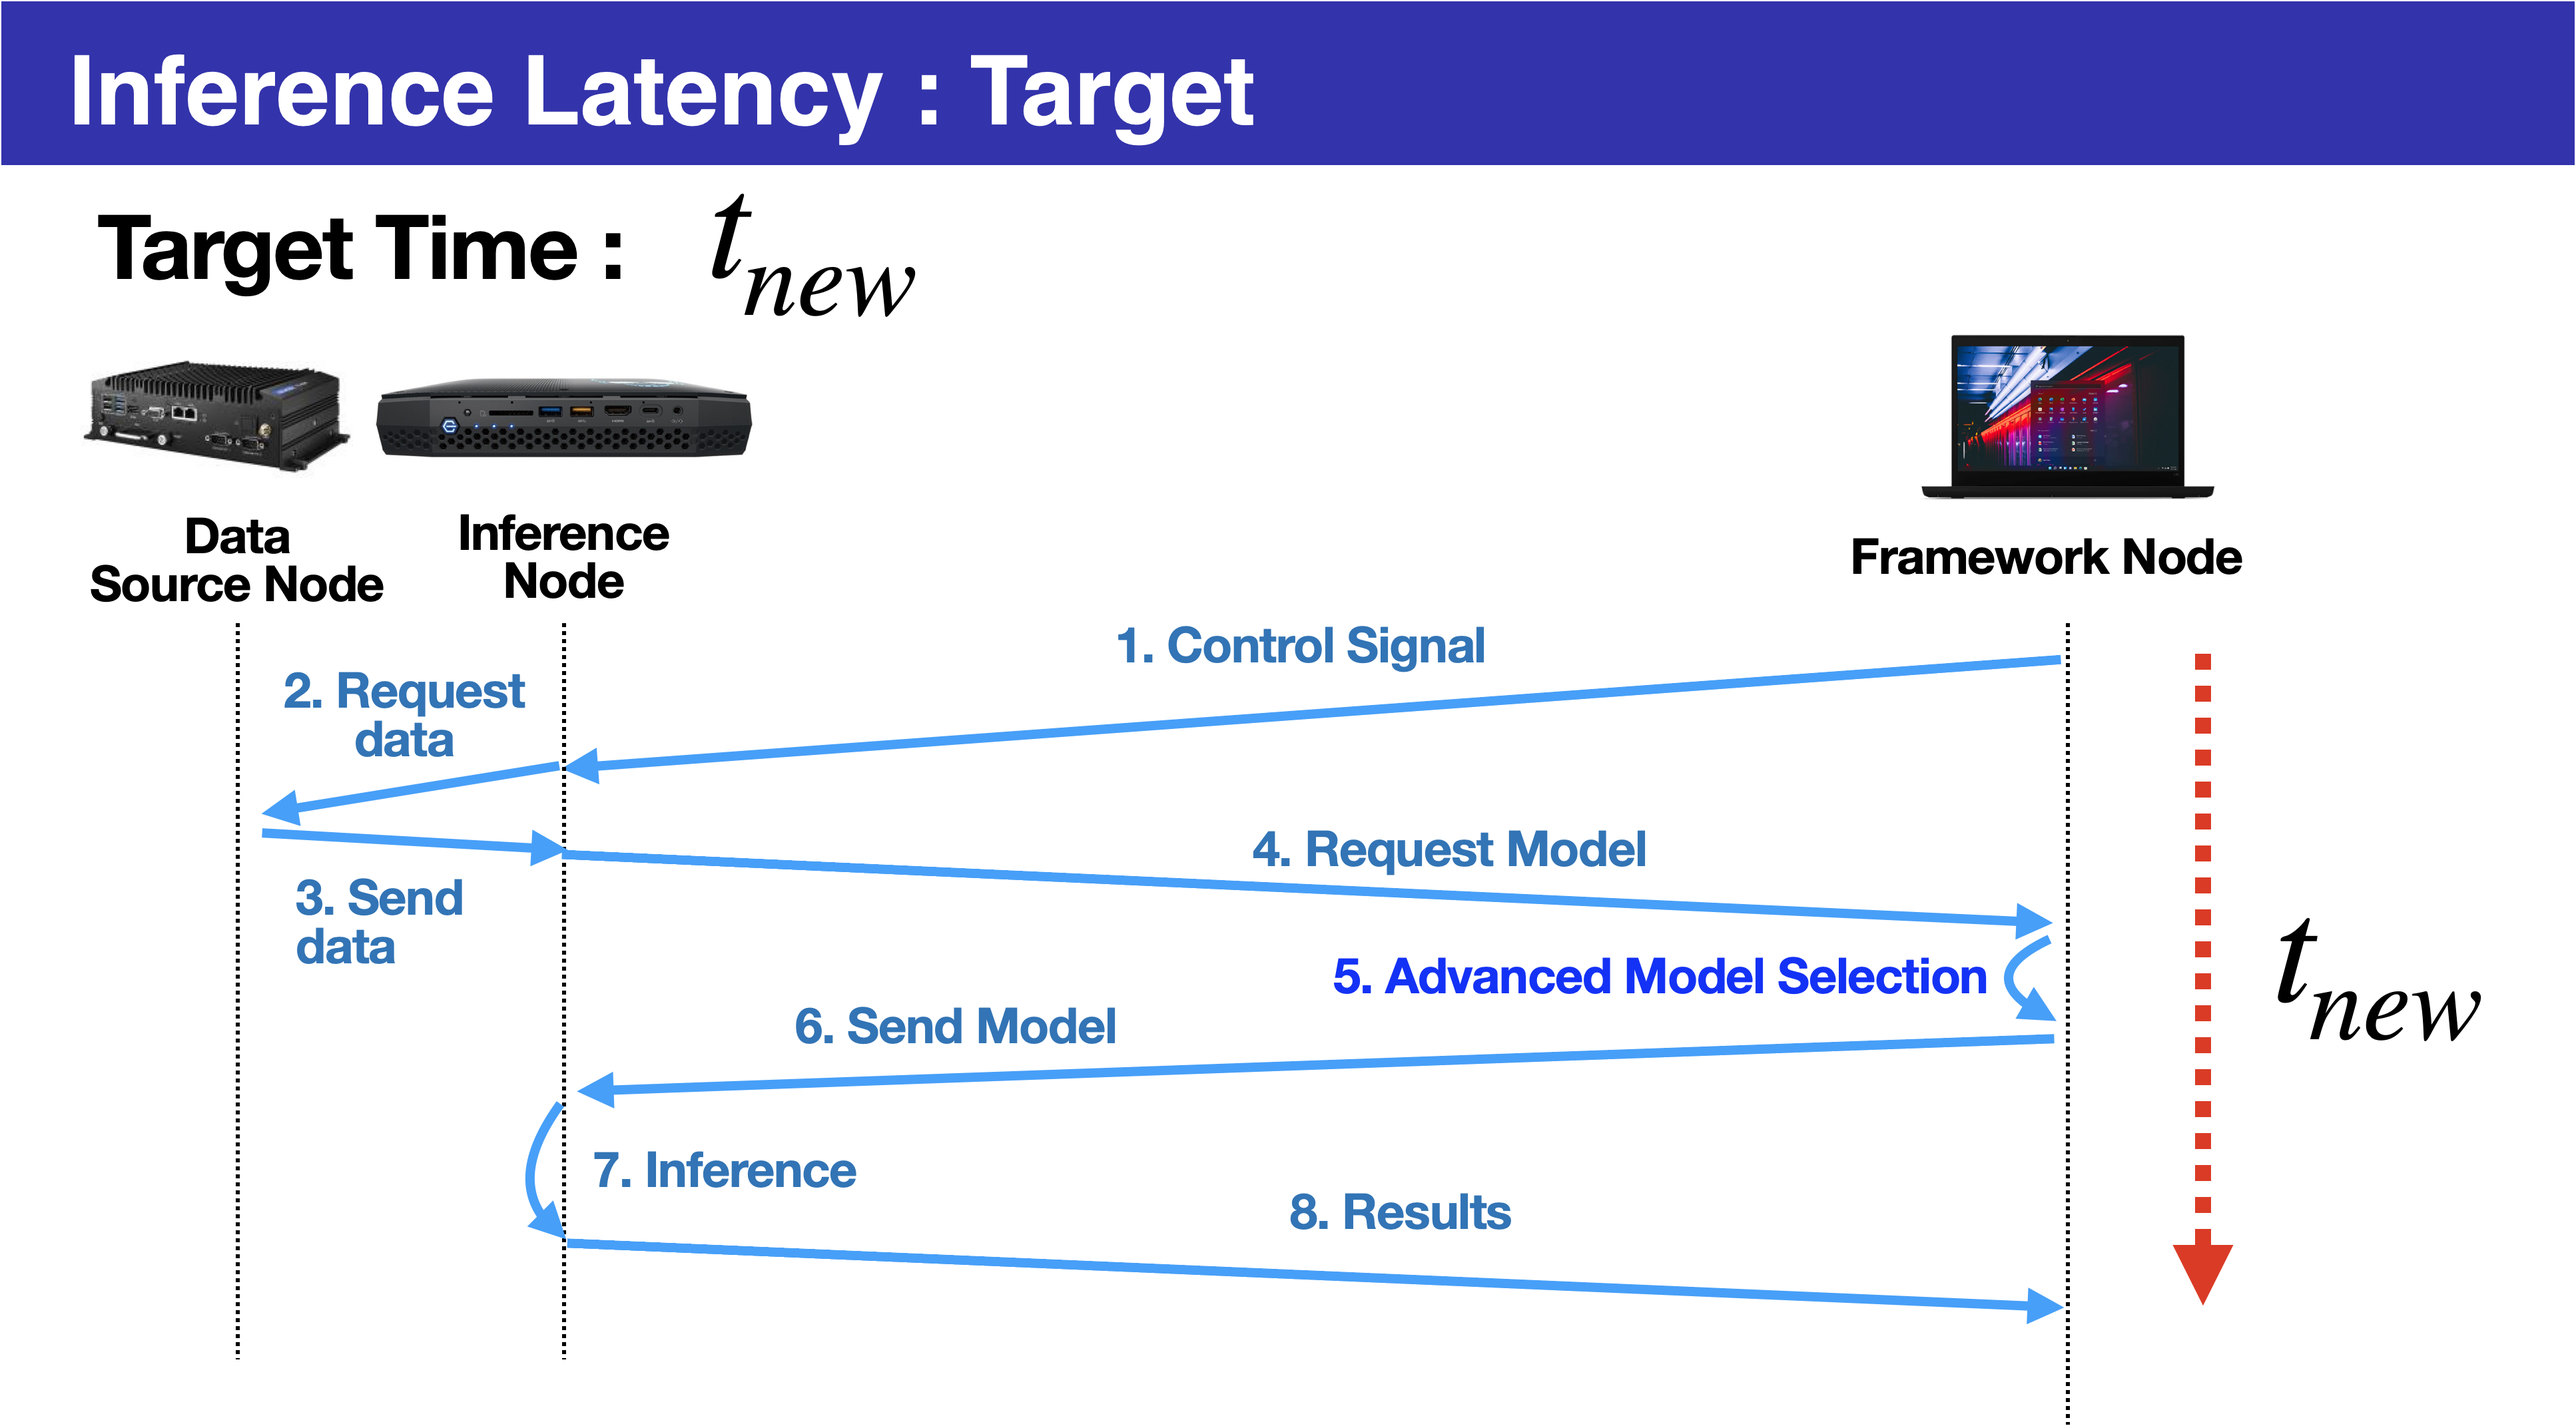
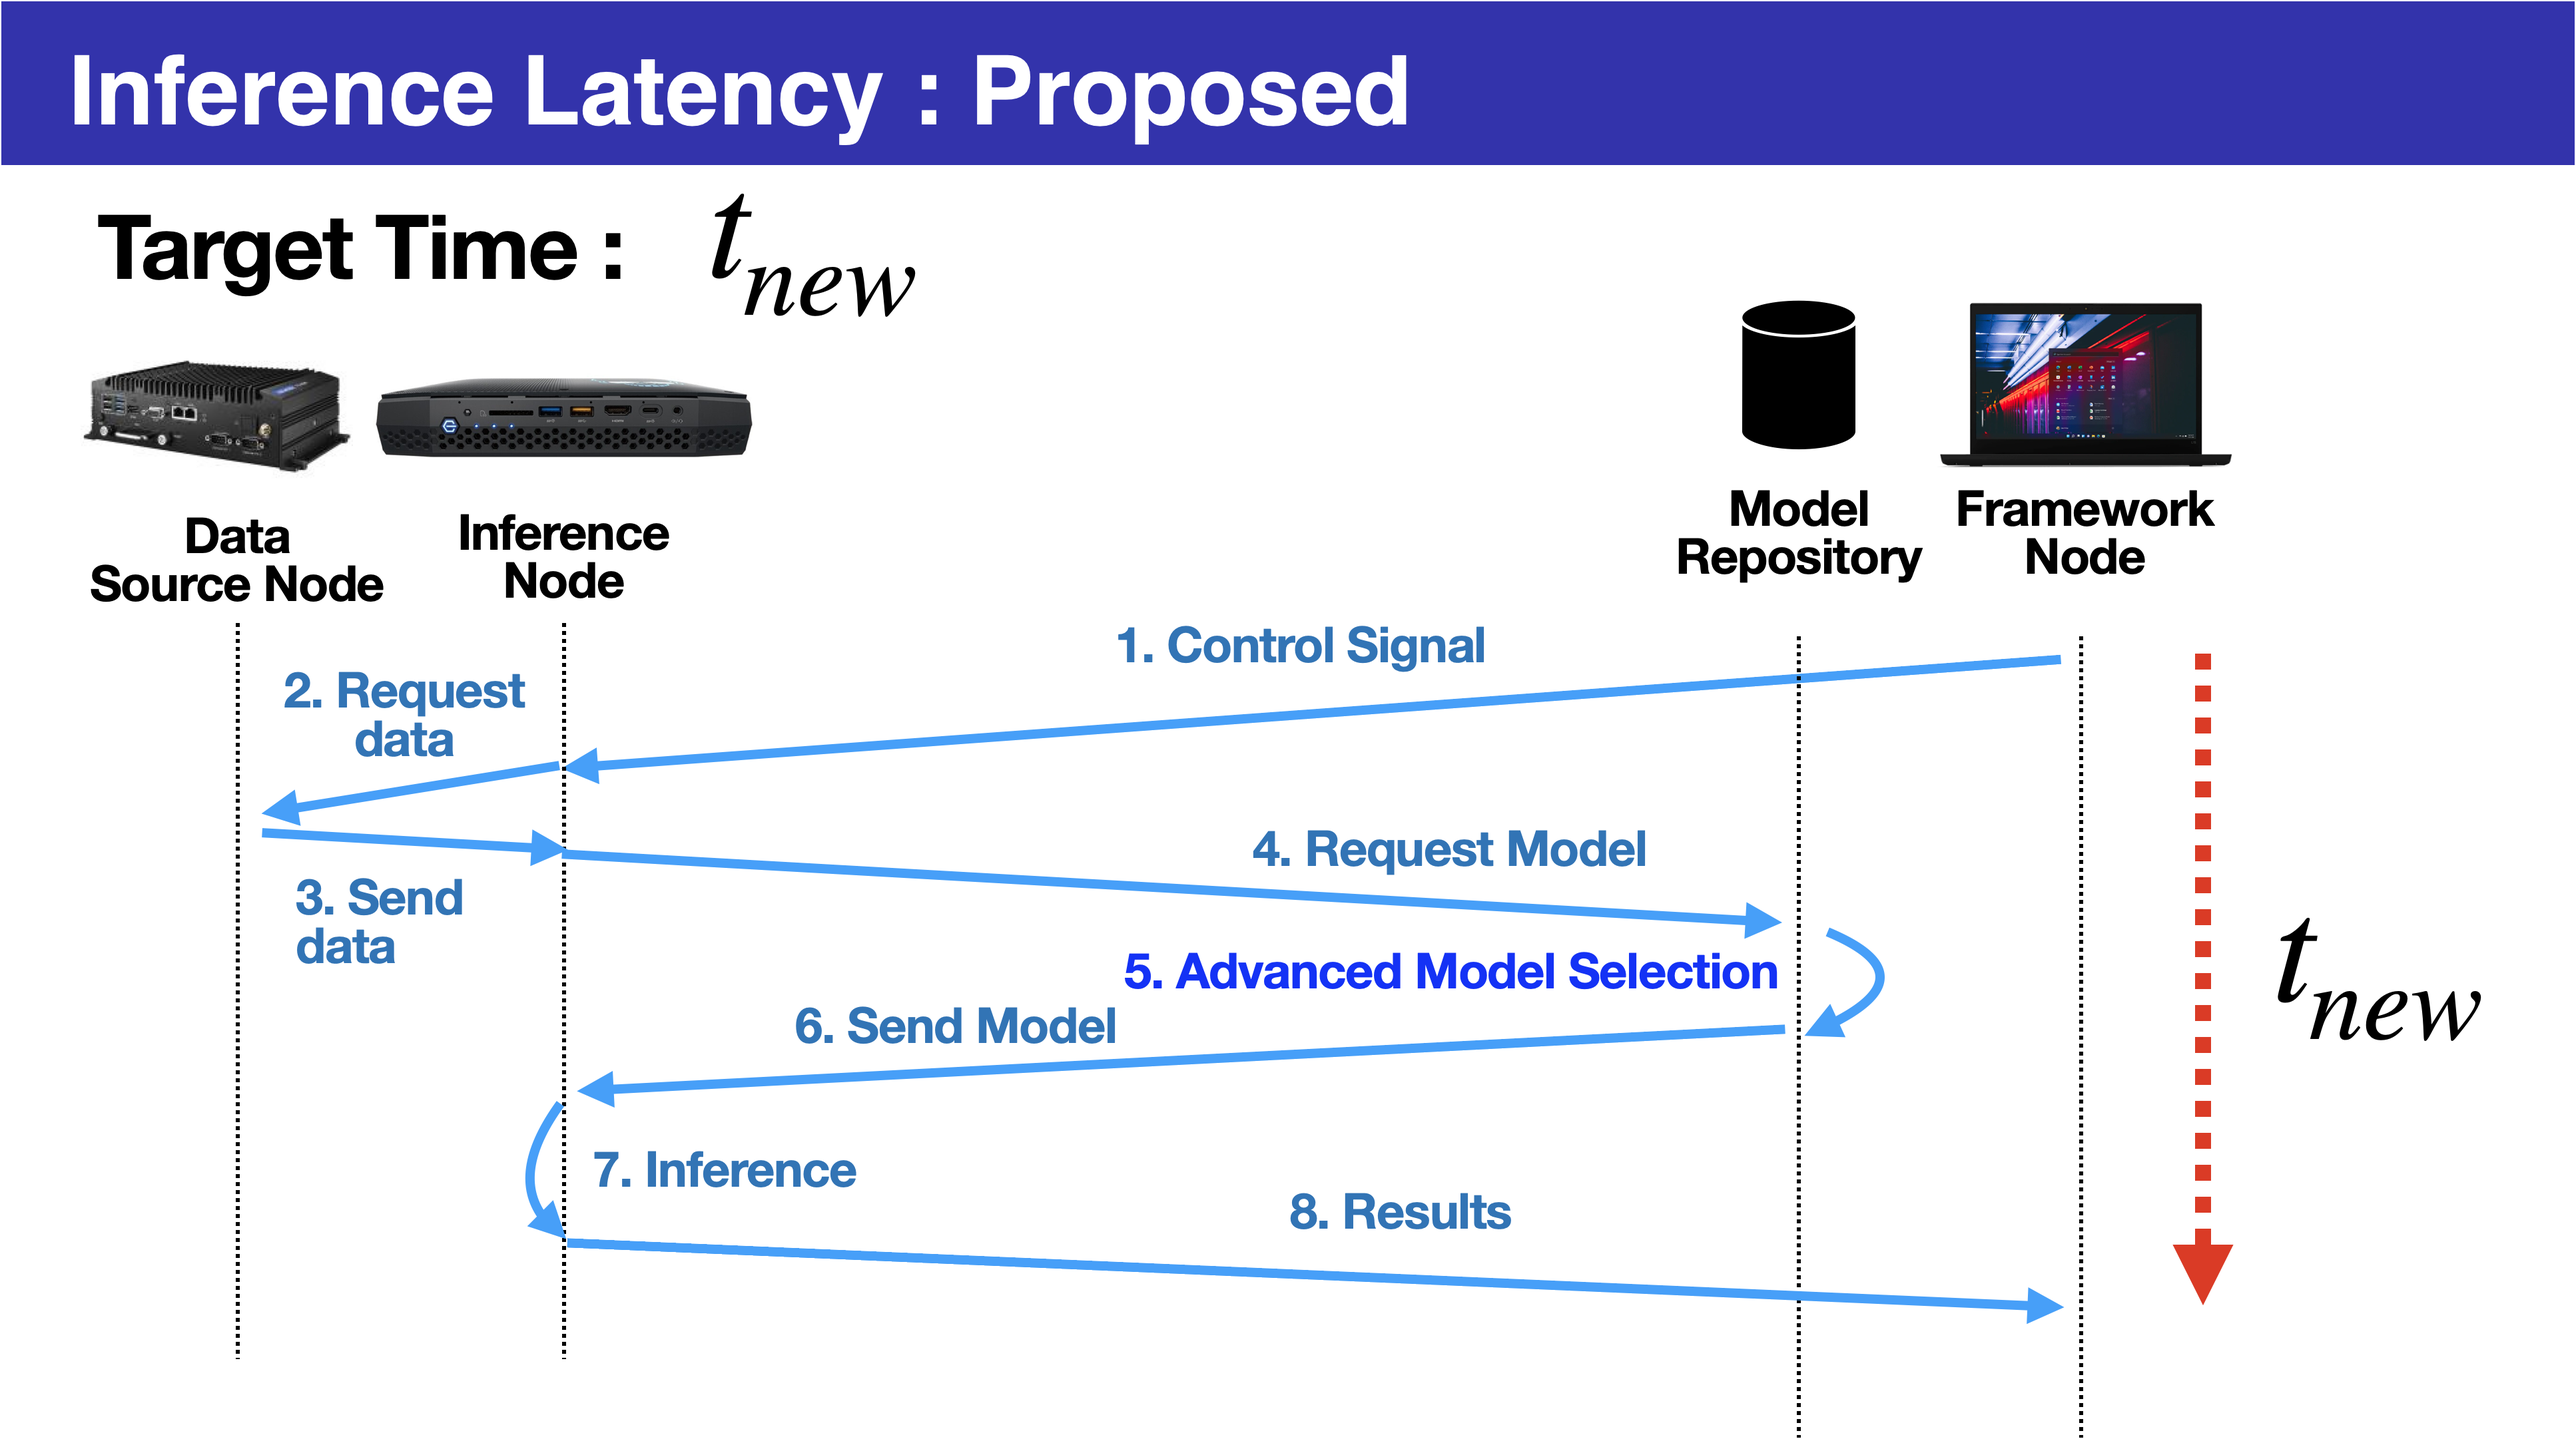
vnv docs

diff --git a/v2/vnv/mission2/README.md b/v2/vnv/mission2/README.md
@@ -19,17 +19,17 @@
 
 ### 기본 인프라
 
-- [출처: 사업계획서] 추론(분석)으로 인해 발생하는 종단 간 지연시간의 평균 개선율을 측정하기 위해 다음과 같이 클라우드-엣지 환경을 설정합니다.
+- 추론(분석)으로 인해 발생하는 종단 간 지연시간의 평균 개선율을 측정하기 위해 다음과 같이 클라우드-엣지 환경을 설정합니다. [출처: 사업계획서] 
 
 ### 평가 환경 및 조건
 
-- [출처: 사업계획서] 이기종의 네트워크 대역폭 및 불안정한 Backgroud Utilization 환경을 고려하며, 엣지 단독 추론 및 병행추론 등 다양한 유형의 분석 방식 채택 가능합니다.
+- 이기종의 네트워크 대역폭 및 불안정한 Backgroud Utilization 환경을 고려하며, 엣지 단독 추론 및 병행추론 등 다양한 유형의 분석 방식 채택 가능합니다. [출처: 사업계획서] 
 
 ### 기준 알고리즘
-- [출처: 사업계획서] 주어진 태스크와 목적에 부합하는 딥러닝 모델 중 가장 우수한 정확도를 제공하는 모델을 엣지 추론을 위한 모델로 선정하는 Greedy Model Selection Algorithm을 기준 알고리즘으로 선정합니다.
+- 주어진 태스크와 목적에 부합하는 딥러닝 모델 중 가장 우수한 정확도를 제공하는 모델을 엣지 추론을 위한 모델로 선정하는 Greedy Model Selection Algorithm을 기준 알고리즘으로 선정합니다. [출처: 사업계획서] 
 
 ### 추론 Budget
-- [출처: 사업계획서] 엣지 추론을 위해 모델 선별 시 허용 가능한 추론 지연시간을 일종의 예산(Budget)개념으로 활용합니다.
+- 엣지 추론을 위해 모델 선별 시 허용 가능한 추론 지연시간을 일종의 예산(Budget)개념으로 활용합니다. [출처: 사업계획서] 
 
 
 
@@ -45,11 +45,11 @@ $$  \Delta {t} = \frac{1}{n} \sum_{i=1}^{n} \frac{ t_{ref} -  t_{new} }{ t_{ref}
 
 - {Baseline}과 {Proposed}의 주요 차이점은 추론 모델 선택에 있습니다.
 - (1) {Baseline}은 가용 모델 중, 가장 성능이 우수한 분석 모델을 선택하는 <b>{Greedy Model Selection}</b> 을 사용합니다.
-- (2) {Proposed}는 장치의 {연산량, 연산자원, 네트워크 대역폭} 등을 고려하여 10% 이내의 정확도 열화를 감내하는 선에서 Latency Budget을 계산하여 추론 모델을 선택하는 <b>{Advanced Model Selection}</b> 을 사용합니다. 
+- (2) {Proposed}는 장치의 {연산량, 연산자원, 네트워크 대역폭} 등을 고려하여 10% 이내의 정확도 열화를 Latency Budget으로 사용하여 추론 모델을 선택하는 <b>{Advanced Model Selection}</b> 을 사용합니다. 
 - 상기 2가지 시험 구성을 분리하여 설명했으나, 세부 시험 구성요소는 변인통제를 위해 서로 공유가 가능합니다.
-- 일례로, {Framework Node, Inference Node, Data Source Node}는 추론지연시간 측정을 위해 그 기능을 공유합니다.
-- {Data Source Node}는 변인통제가 필요하지만, 현장 시나리오를 가정하여 개념도에 추가했으녀, 추론하고자 하는 데이터를 {Inference Node}에서 캐싱(cashing)하여 처리하는 것이 바람직합니다.
-
+- 일례로, {Framework Node, Inference Node, Data Source Node, Model Repository}는 추론지연시간 측정을 위해 그 기능을 공유합니다.
+- {Data Source Node}는 변인통제가 필요하지만, 현장 시나리오를 가정하여 개념도에 추가했으며, 추론하고자 하는 데이터를 {Inference Node}에서 캐싱(cashing)하여 처리하는 것이 바람직합니다.
+- 에지 디바이스의 종류는  수 있습니다.
 
 ### 시험 방법
 
@@ -59,7 +59,7 @@ $$  \Delta {t} = \frac{1}{n} \sum_{i=1}^{n} \frac{ t_{ref} -  t_{new} }{ t_{ref}
 ```python
 
 methods = ['baseline', 'proposed']
-edges = ['RTX3080TI', 'NUC', 'MACMINI', 'RPI']
+edges = [ 'RTX3080TI', 'NUC'] # ['RTX3080TI', 'NUC', 'MACMINI', 'RPI']
 models = ['resnet18', 'resnet34', 'resnet50', 'resnet101', 'resnet152']
 measured_time = []
 
@@ -97,6 +97,8 @@ for edge in edges:
 - latency_saving_rate 가 20% 이상인지 확인합니다.
 
 
+
+
 ### 시험 구성 1 (Baseline)
 
 - {Baseline}에서는 종래의 가장 성능이 우수한 모델을 선택하는 방식을 사용하는 {Greedy Model Selection} 방법을 사용하는 것을 특징으로 합니다.
@@ -107,8 +109,7 @@ for edge in edges:
 
   (2) Model Repository (인공신경망 모델 리포지토리)
 
-
-  (3) Inference Node (추론 노드) : {NUC GPU Edge Device, RTX3080Ti GPU Server, Macbook, RPI}
+  (3) Inference Node (추론 노드) : {e.g. NUC GPU Edge Device, RTX3080Ti GPU Server, Macbook, RPI}
 
   (4) Data Source Node : {RPI or Synology NAS or Remote Repository}
 
@@ -116,8 +117,12 @@ for edge in edges:
 ![img](img4doc/01_baseline.png)
 
 
+
+
 ### 시험 구성 2 (Proposed)
-- {Proposed}에서는 장치의 {연산량, 연산자원, 네트워크 대역폭} 등을 고려하여 10% 이내의 정확도 열화를 감내하는 선에서 Latency Budget을 계산하여 추론 모델을 선택하는 {Advanced Model Selection}을 사용하는 것을 특징으로 합니다.
+
+- {Proposed}는 장치의 {연산량, 연산자원, 네트워크 대역폭} 등을 고려하여 10% 이내의 정확도 열화를 Latency Budget으로 사용하여 추론 모델을 선택하는 <b>{Advanced Model Selection}</b> 을 사용하는 것을 특징으로 합니다.
+
 - 주요 시험 구성요소는 다음과 같습니다.
 
   (1) Framework Node (프레임워크 노드) : {MacbookPro14} --> <b>{Advanced Model Selection}</b> 적용
@@ -125,22 +130,12 @@ for edge in edges:
   (2) Model Repository (인공신경망 모델 리포지토리)
 
 
-  (3) Inference Node (추론 노드) : {NUC GPU Edge Device, RTX3080Ti GPU Server, Macbook, RPI}
+  (3) Inference Node (추론 노드) : {e.g. NUC GPU Edge Device, RTX3080Ti GPU Server, Macbook, RPI}
 
   (4) Data Source Node : {RPI or Synology NAS or Remote Repository}
 
 
 ![img](img4doc/01_baseline.png)
-
-### 시험 구성 2 (Proposed)
-- {Proposed}에서는 장치의 {연산량, 연산자원, 네트워크 대역폭} 등을 고려하여 10% 이내의 정확도 열화를 감내하는 선에서 Latency Budget을 계산하여 추론 모델을 선택하는 {Advanced Model Selection}을 사용하는 것을 특징으로 합니다.
-- 주요 시험 구성요소는 다음과 같습니다.
-- Framework Node (프레임워크 노드) : {MacbookPro14} --> <b>{Advanced Model Selection}</b> 적용
-- Inference Node (추론 노드) : {NUC GPU Edge Device}
-- Data Source Node : {RPI or Synology NAS}
->>>>>>> 2293a61a380fc0c0c80e793aba76264545d41a22
-
-![img](img4doc/02_proposed.png)
 
 
 
